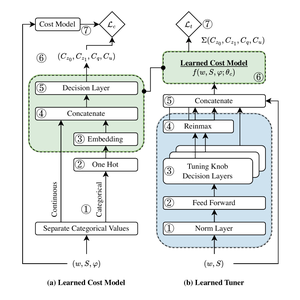
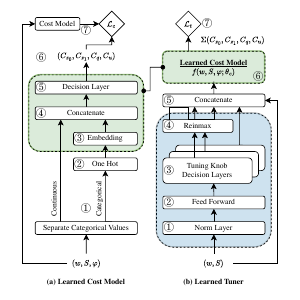
sharper AXE and SIDECAR thumbnails
Render the figures directly from the PDFs and add 3x versions via srcset
so they stay crisp on high-DPI screens; display size is unchanged.

diff --git a/index.html b/index.html
@@ -269,7 +269,8 @@
 
 	                    <div class="project mb-5 flex-column flex-lg-row bg-white shadow-sm">
 		                    <div class="card-img-container position=relative">
-                                <img class="card-img-top rounded-0" src="assets/images/projects/project-9.png" alt="">
+                                <img class="card-img-top rounded-0" src="assets/images/projects/project-9.png"
+                                    srcset="assets/images/projects/project-9.png 1x, assets/images/projects/project-9@3x.png 3x" alt="">
 		                    </div>
 		                    <div class="project-body p-4">
                                 <h5 class="paper-title">Speculative Decoding for Semantic-ID-Based Generative
@@ -302,7 +303,8 @@
 
 	                    <div class="project mb-5 flex-column flex-lg-row bg-white shadow-sm">
 		                    <div class="card-img-container position=relative">
-                                <img class="card-img-top rounded-0" src="assets/images/projects/project-8.png" alt="">
+                                <img class="card-img-top rounded-0" src="assets/images/projects/project-8.png"
+                                    srcset="assets/images/projects/project-8.png 1x, assets/images/projects/project-8@3x.png 3x" alt="">
 		                    </div>
 		                    <div class="project-body p-4">
                                 <h5 class="paper-title">AXE: A Task Decomposition Approach to Learned LSM Tuning</h5>
